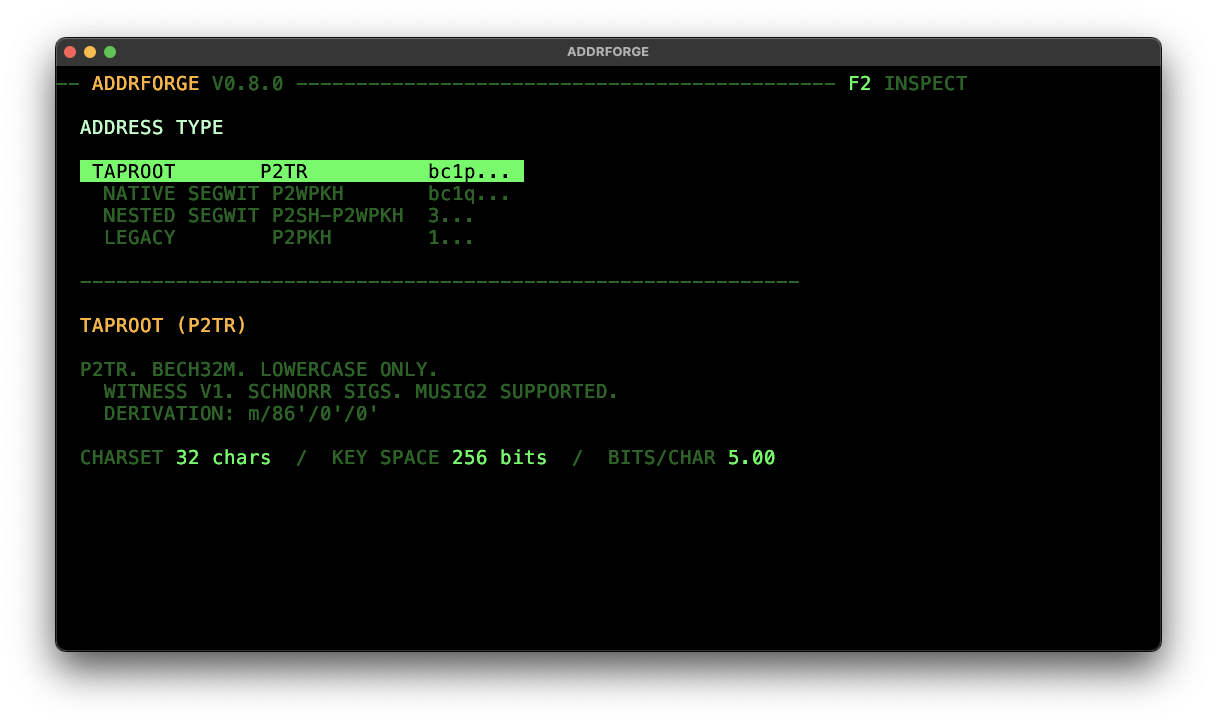
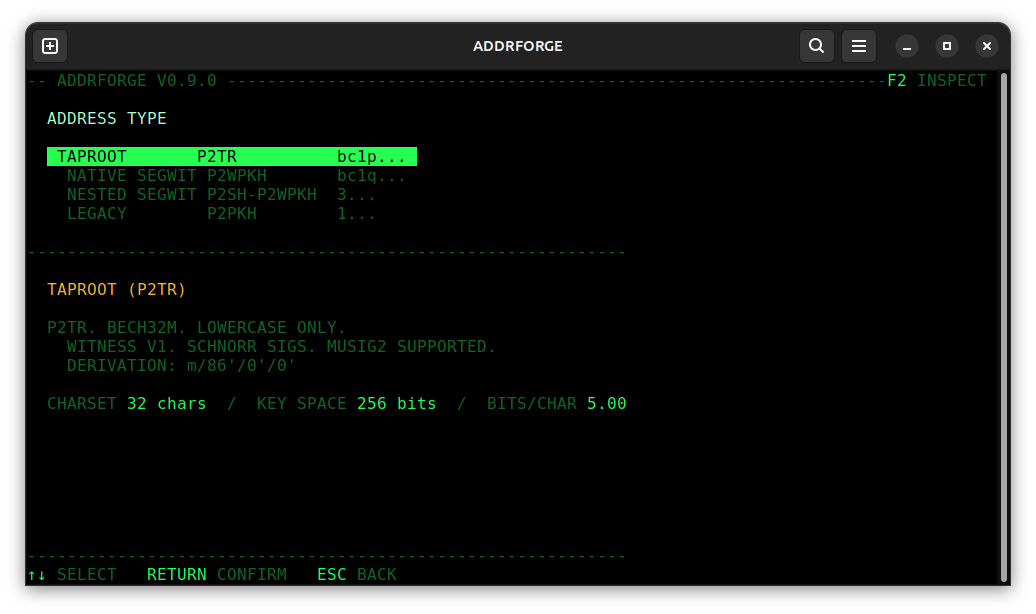
Documentation

Changed region(s): [[0.0, 0.0309, 0.9884, 0.9902]]

diff --git a/README.md b/README.md
@@ -1,6 +1,6 @@
 # addrforge
 
-Bitcoin vanity address generator. Find addresses that start or end with a pattern you choose, or match a regular expression. Supports all four Bitcoin address types and MuSig2 two-of-two key aggregation.
+Bitcoin vanity address generator. Find addresses that start or end with a pattern you choose, or match a regular expression. Supports all four Bitcoin address types, all networks, MuSig2 n-of-n key aggregation, and BIP-39 mnemonic export.
 
 ```
 bc1pcat     bc1qfat     1Dad     3Shop
@@ -19,13 +19,13 @@ bc1pcat     bc1qfat     1Dad     3Shop
 cargo build --release
 ```
 
-The binary is at `./target/release/addrforge`. Requires Rust 1.65+. Tested on Linux and macOS.
+The binary is at `./target/release/addrforge`. Requires Rust 1.66+. Tested on Linux and macOS.
 
 ---
 
 ## TUI
 
-Launch with no arguments to open the interactive terminal interface.
+Launch with no arguments to open the interactive terminal interface. Minimum terminal size: 72×24.
 
 ```bash
 ./target/release/addrforge
@@ -39,31 +39,48 @@ Address Mode → Type Picker → Setup → Running → Results
               MuSig2 Setup → MuSig2 Result
 ```
 
-| Key | Action |
-|-----|--------|
-| `↑↓` or `j/k` | Navigate |
-| `Tab` / `Shift-Tab` | Next / previous field |
-| `Space` | Cycle mode on MODE field |
-| `Enter` | Confirm / start search |
-| `Esc` | Back |
-| `S` | Save results to file |
-| `I` | Inspect selected address |
-| `N` | New search (resets to start) |
-| `F2` | Open address inspector from any screen |
-| `Ctrl-C` | Quit |
+| Key                 | Action                                 |
+| ------------------- | -------------------------------------- |
+| `↑↓` or `j/k`       | Navigate / scroll results              |
+| `Tab` / `Shift-Tab` | Next / previous field                  |
+| `Space` / `←→`      | Cycle value on NETWORK or MODE field   |
+| `Enter`             | Confirm / start search                 |
+| `Esc`               | Back                                   |
+| `S`                 | Save results to file                   |
+| `I`                 | Inspect selected address               |
+| `N`                 | New search (resets to start)           |
+| `F2`                | Open address inspector from any screen |
+| `Ctrl-C`            | Quit                                   |
+
+Settings (address type, network, mode, thread count) are saved to `~/.config/addrforge/config.toml` on exit and restored on next launch.
 
 ---
 
 ## Address types
 
-| Type | Prefix | Format | Derivation |
-|------|--------|--------|------------|
-| Taproot P2TR | `bc1p` | bech32m | m/86'/0'/0' |
-| Native SegWit P2WPKH | `bc1q` | bech32 | m/84'/0'/0' |
-| Nested SegWit P2SH-P2WPKH | `3` | base58 | m/49'/0'/0' |
-| Legacy P2PKH | `1` | base58 | m/44'/0'/0' |
+| Type                      | Mainnet prefix | Format  | Derivation  |
+| ------------------------- | -------------- | ------- | ----------- |
+| Taproot P2TR              | `bc1p`         | bech32m | m/86'/0'/0' |
+| Native SegWit P2WPKH      | `bc1q`         | bech32  | m/84'/0'/0' |
+| Nested SegWit P2SH-P2WPKH | `3`            | base58  | m/49'/0'/0' |
+| Legacy P2PKH              | `1`            | base58  | m/44'/0'/0' |
 
 Bech32 addresses (Taproot, Native SegWit) are lowercase only. Base58 addresses (Legacy, Nested) are case-sensitive — `1ABC` and `1abc` are different patterns.
+
+---
+
+## Networks
+
+addrforge supports all four Bitcoin networks. Switch networks in the Setup screen (SPACE on the NETWORK field) or via the `--network` CLI flag.
+
+| Network | Taproot prefix | Legacy prefix |
+| ------- | -------------- | ------------- |
+| Mainnet | `bc1p`         | `1`           |
+| Testnet | `tb1p`         | `m` / `n`     |
+| Signet  | `tb1p`         | `m` / `n`     |
+| Regtest | `bcrt1p`       | `m` / `n`     |
+
+Prefix validation and difficulty estimates are network-aware. Testnet and regtest are useful for wallet integration testing without risking real funds.
 
 ---
 
@@ -98,11 +115,13 @@ Use `--bench` to measure your machine's generation rate before committing to a l
 
 ## MuSig2
 
-MuSig2 mode derives a two-of-two aggregate Taproot address from two compressed public keys. Both parties must co-sign to spend. The resulting address is indistinguishable from a single-key Taproot address on-chain.
+MuSig2 mode derives an n-of-n aggregate Taproot address from 2 to 16 compressed public keys (BIP-327). All parties must co-sign to spend. The resulting address is indistinguishable from a single-key Taproot address on-chain.
 
-**Input format:** 33-byte compressed public keys, 66 hex characters, with `02` or `03` prefix. Keys from any wallet type (Legacy, SegWit, Taproot) work — the output is always a Taproot address.
+**Input format:** 33-byte compressed public keys, 66 hex characters, with `02` or `03` prefix.
 
-**Important:** The key shown on the singlesig results screen labeled *OUTPUT KEY (TWEAKED X-ONLY PUBKEY)* is **not** the right format for MuSig2. Use the *COMPRESSED PUBKEY* row shown below it, or provide keys generated externally by your wallet software.
+In the TUI, add keys one at a time — type 66 hex chars and press `Enter` to confirm each key. Once two or more keys are added, press `Enter` on an empty input to derive the aggregate address. `Backspace` on an empty input removes the last confirmed key.
+
+**Important:** The key shown on the singlesig results screen labeled _OUTPUT KEY (TWEAKED X-ONLY PUBKEY)_ is **not** the right format for MuSig2. Use the _COMPRESSED PUBKEY_ row shown below it, or provide keys generated externally by your wallet software.
 
 **This is not a signing tool.** addrforge derives the address only. To actually spend from a MuSig2 address you need a BIP-327 compatible signing library or wallet.
 
@@ -120,22 +139,26 @@ MuSig2 mode derives a two-of-two aggregate Taproot address from two compressed p
 # Regex search, 8 threads
 ./target/release/addrforge --no-tui --mode regex --pattern "^bc1p[0-9]{3}" --threads 8
 
+# Testnet address
+./target/release/addrforge --no-tui --network testnet --pattern tb1pface
+
 # Save results to a specific directory
 ./target/release/addrforge --no-tui --pattern bc1ptest --output-dir ~/keys
 ```
 
 **Flags:**
 
-| Flag | Default | Description |
-|------|---------|-------------|
-| `--no-tui` | — | Print results to stdout instead of TUI |
-| `--addr-type` | `taproot` | `legacy`, `nested`, `native`, `taproot` |
-| `--mode` | `prefix` | `prefix`, `suffix`, `regex` |
-| `--pattern` | — | Pattern to search for (required with `--no-tui`) |
-| `--count` | `1` | Number of matches to find |
-| `--threads` | all CPUs | Number of worker threads |
-| `--output-dir` | `.` | Directory for saved result files |
-| `--bench` | — | Benchmark generation speed and exit |
+| Flag           | Default   | Description                                      |
+| -------------- | --------- | ------------------------------------------------ |
+| `--no-tui`     | —         | Print results to stdout instead of TUI           |
+| `--addr-type`  | `taproot` | `legacy`, `nested`, `native`, `taproot`          |
+| `--network`    | `mainnet` | `mainnet`, `testnet`, `signet`, `regtest`        |
+| `--mode`       | `prefix`  | `prefix`, `suffix`, `regex`                      |
+| `--pattern`    | —         | Pattern to search for (required with `--no-tui`) |
+| `--count`      | `1`       | Number of matches to find (max 1000)             |
+| `--threads`    | all CPUs  | Number of worker threads (max 256)               |
+| `--output-dir` | `.`       | Directory for saved result files                 |
+| `--bench`      | —         | Benchmark generation speed and exit              |
 
 ---
 
@@ -145,8 +168,8 @@ MuSig2 mode derives a two-of-two aggregate Taproot address from two compressed p
 # Taproot speed on all CPUs
 ./target/release/addrforge --bench
 
-# Legacy speed on 4 threads
-./target/release/addrforge --bench --addr-type legacy --threads 4
+# Testnet legacy speed on 4 threads
+./target/release/addrforge --bench --addr-type legacy --network testnet --threads 4
 ```
 
 Prints addresses/sec and estimated average search time per prefix length. Runs for 5 seconds then exits.
@@ -160,8 +183,9 @@ Saved results are written to `addrforge-<timestamp>.txt` in the output directory
 Example singlesig result file:
 
 ```
-ADDRFORGE V0.8.0 -- RESULTS
+ADDRFORGE V0.9.0 -- RESULTS
 TYPE    : TAPROOT (P2TR)
+NETWORK : MAINNET
 MODE    : PREFIX
 PATTERN : bc1pface
 THREADS : 8  COUNT : 1
@@ -172,13 +196,16 @@ MATCH 1
   PUBKEY     : <x-only output key>
   COMPRESSED : 02<compressed pubkey — use this for MuSig2>
   WIF KEY    : <private key in WIF format>
+  MNEMONIC   : word1 word2 word3 ... word24
 ```
+
+The mnemonic is a standard BIP-39 24-word seed phrase derived directly from the private key entropy. It encodes the same key as the WIF and can be used to import into any BIP-39 compatible wallet.
 
 ---
 
 ## Importing keys into a wallet
 
-The WIF private key from addrforge works with any Bitcoin wallet that supports raw key import, but most wallets need to know which address type to derive. The same private key can produce all four address types.
+**Via WIF** — works with any wallet that supports raw key import.
 
 **Sparrow Wallet** — recommended for all address types, especially Taproot.
 
@@ -202,25 +229,28 @@ Run `getdescriptorinfo "tr(KwDiB...)"` first to get the checksum.
 
 **Electrum** — requires a script-type prefix when importing:
 
-| Prefix | Address type |
-|--------|-------------|
-| `p2tr:KwDiB...` | Taproot (bc1p) | *Not Supported
-| `p2wpkh:KwDiB...` | Native SegWit (bc1q) |
-| `p2wpkh-p2sh:KwDiB...` | Nested SegWit (3) |
-| `p2pkh:KwDiB...` | Legacy (1) |
+| Prefix                 | Address type         |
+| ---------------------- | -------------------- |
+| `p2wpkh:KwDiB...`      | Native SegWit (bc1q) |
+| `p2wpkh-p2sh:KwDiB...` | Nested SegWit (3)    |
+| `p2pkh:KwDiB...`       | Legacy (1)           |
 
-Without a prefix, Electrum defaults to Legacy.
+Without a prefix, Electrum defaults to Legacy. Taproot WIF import is not supported by Electrum.
+
+**Via BIP-39 mnemonic** — import the 24-word phrase into any BIP-39 compatible wallet (Sparrow, Ledger, Trezor, etc.). Note that BIP-39 wallets derive keys via a full HD path — the address you get will only match the addrforge result if the wallet derives at the correct path (m/86'/0'/0'/0/0 for Taproot).
 
 **Wallets that do NOT support Taproot WIF import:** BlueWallet, Trust Wallet, Exodus, and Wasabi (expects seed phrases only) generally cannot import raw Taproot keys even if they support Taproot addresses.
 
 ---
 
+> **⚠ Notice:** addrforge is an independent open-source tool and has not been formally audited by a third party. Read the [Security](#security) section before using with real funds.
+
 ## Security
 
-**The WIF private key in the output file controls the funds.** Anyone with access to this file can spend from the address.
+**The WIF private key and mnemonic in the output file control the funds.** Anyone with access to this file can spend from the address.
 
 - Store result files in an encrypted location immediately after saving
-- Never share WIF keys or commit them to version control
+- Never share WIF keys or mnemonics, or commit them to version control
 - For significant funds, generate keys on an air-gapped machine
 - addrforge generates keys using the OS cryptographic RNG (`thread_rng` backed by the system entropy source)
 - Vanity prefixes do not meaningfully reduce security — even an 8-character Taproot prefix leaves 216 bits of key space, far beyond any feasible attack
@@ -235,4 +265,6 @@ In the TUI setup screen, Taproot prefix and suffix searches expose an optional *
 
 ## Address inspector
 
-Press `F2` from any main screen, or `I` on the results screen, to open the address inspector. Paste any Bitcoin address to decode its type, network, encoding, key hash, and spend type. Works with mainnet, testnet, signet, and regtest addresses. The inspector detects provably unspendable addresses using the BIP-341 NUMS point.
+Press `F2` from any main screen, or `I` on the results screen, to open the address inspector. Type any Bitcoin address and press `Enter` to decode its type, network, encoding, key hash, and spend type. Works with mainnet, testnet, signet, and regtest addresses. The inspector detects provably unspendable addresses using the BIP-341 NUMS point.
+
+All inspection is done locally — no network requests are made. The inspector decodes only what is encoded in the address string itself (the key hash or output key). It cannot show balance, transaction history, or the original public key behind a hash.
